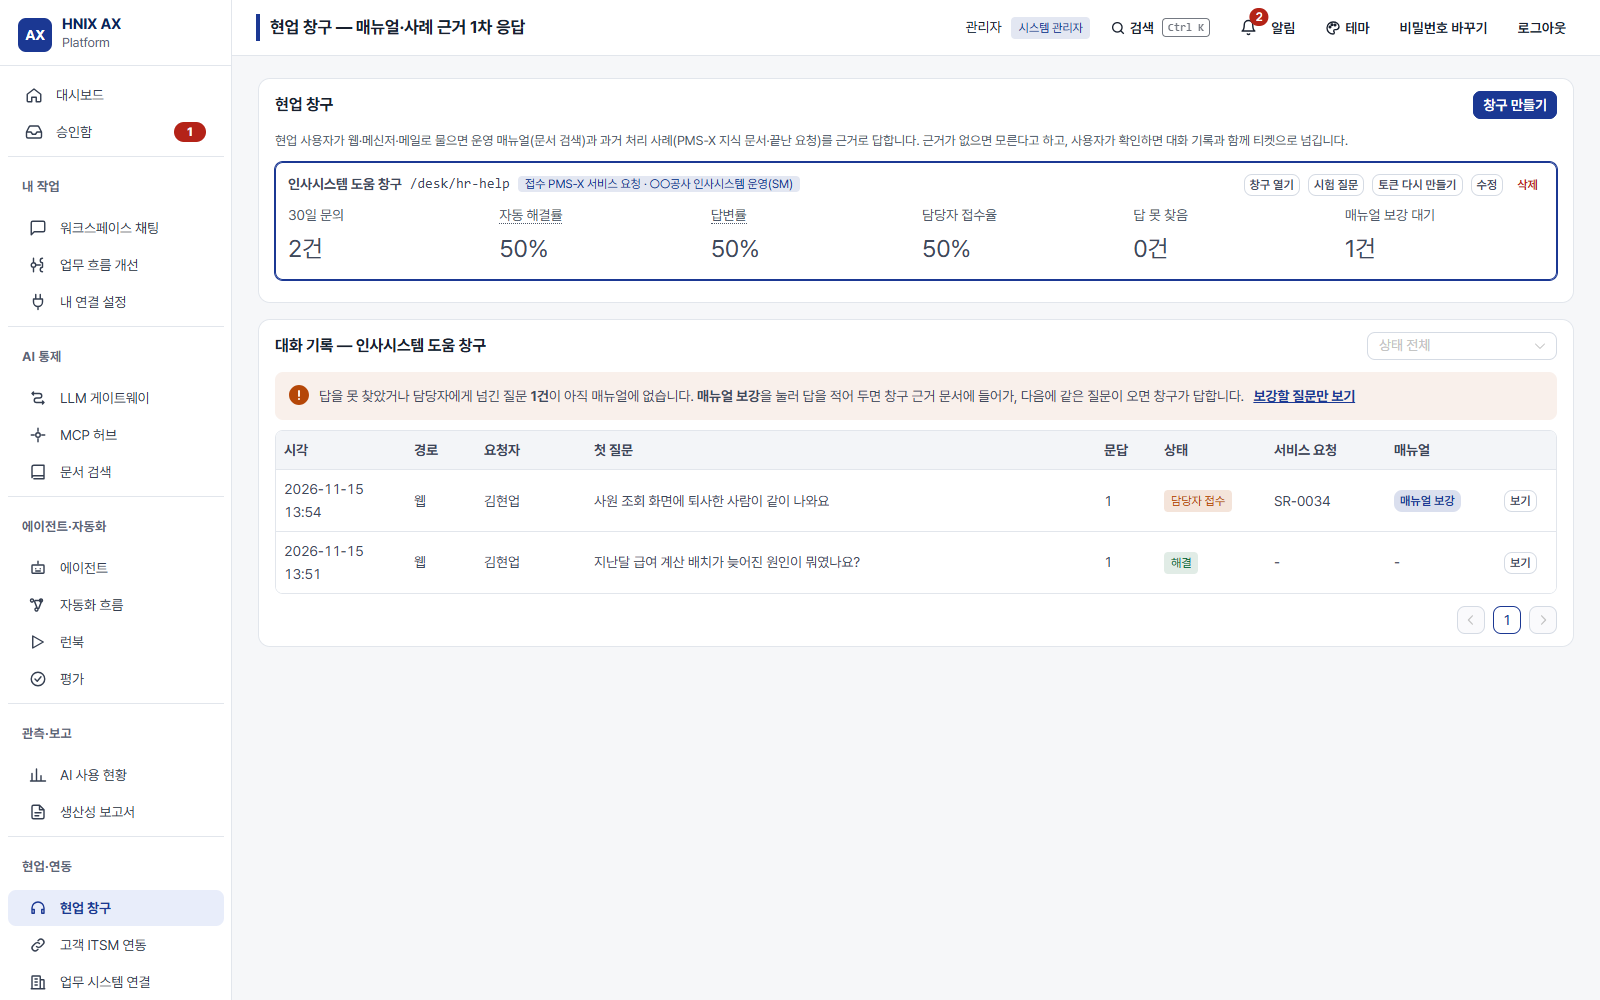
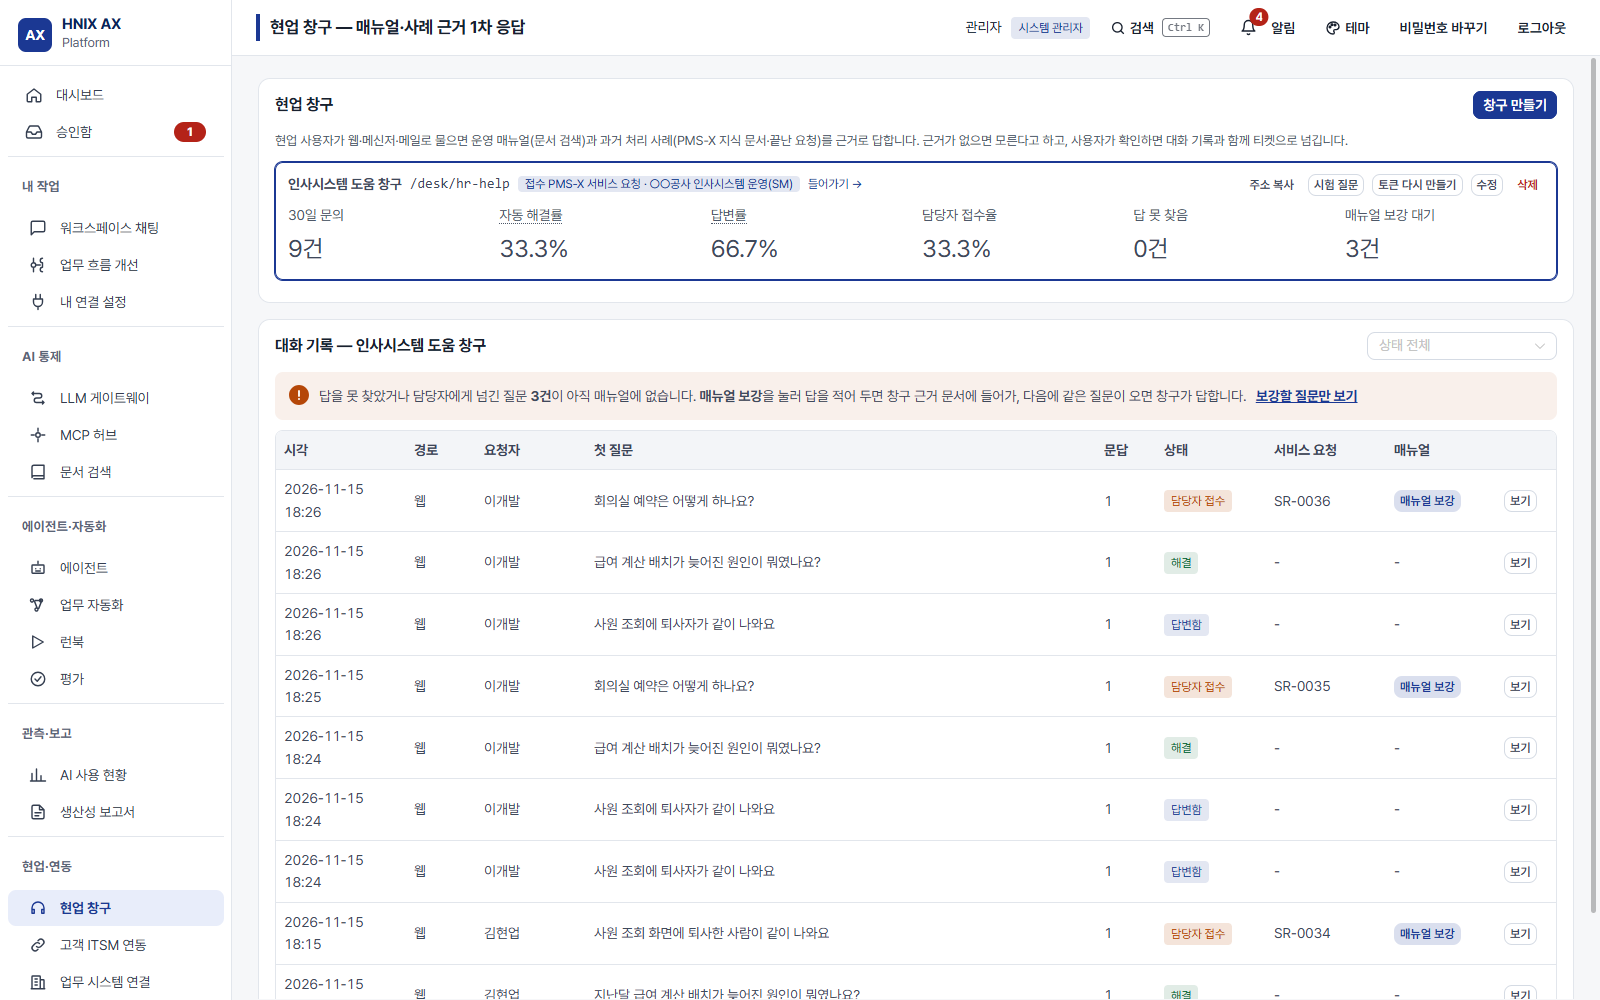
manual: 현업 창구 새 화면 — 첫 화면·답 카드의 해결·담당자 넘기기·내 문의, 창구 관리의 카드 누르기·주소 복사 · 그림 다시 · 오프라인판

diff --git a/user/platform/desk.md b/user/platform/desk.md
@@ -12,49 +12,51 @@
 
 ## 화면 구성
 
-<figure><img src="img/platform/u-desk.png" alt="현업 창구 화면 — 위 파란 띠에 '현업 창구'와 창구 이름 'E2E 인사시스템 도움 창구', 오른쪽에 로그인한 이름, 가운데 대화칸(첫 인사 '무엇이든 물어보세요. 운영 매뉴얼과 처리 사례를 찾아 답합니다.'), 아래 입력칸·보내기·안내 문구, 오른쪽 '내 최근 문의'(담당자 접수 SR-0103 · 답변함 등 지난 문의 목록)"><figcaption>시연 창구. 창구마다 색·로고·첫 인사·자주 묻는 질문이 다를 수 있습니다.</figcaption></figure>
+<figure><img src="img/platform/u-desk.png" alt="현업 창구 첫 화면 — 위 얇은 머리 줄에 로고·창구 이름·설명과 오른쪽 사용자 메뉴, 가운데 '무엇을 도와드릴까요?'와 큰 입력칸(마이크·보내기), 아래 자주 묻는 질문 카드와 '이렇게 도와드려요' 세 단계, 오른쪽 '내 문의' 목록(질문·상태·시각)"><figcaption>시연 창구의 첫 화면. 창구마다 색·로고·첫 인사·자주 묻는 질문이 다를 수 있습니다.</figcaption></figure>
 
 | 영역 | 하는 일 |
 |---|---|
-| 머리 띠 | 창구 이름·설명, 로그인한 이름(포털 안에 넣은 화면에서는 숨겨짐) |
-| 대화칸 | 첫 인사, **자주 묻는 질문** 단추(있으면), 내 질문과 답 |
-| 답 아래 | **근거** 또는 **참고 자료** 꼬리표, 음성이 켜져 있으면 **듣기** |
-| 입력칸 | 질문을 적고 **보내기**(Enter). 음성이 켜져 있으면 마이크 단추 |
-| 오른쪽 **내 최근 문의** | 지난 문의와 상태·접수 번호. 누르면 그 대화를 다시 엽니다 |
+| 머리 줄 | 로고·창구 이름·설명, 오른쪽 사용자 메뉴(이름·로그아웃). 포털 안에 넣은 화면에서는 숨겨짐 |
+| 첫 화면 | **무엇을 도와드릴까요?**, 큰 입력칸, **자주 묻는 질문** 카드, **이렇게 도와드려요** 세 단계(① 매뉴얼·처리 사례로 먼저 답 ② 안 풀리면 대화 기록과 함께 담당자에게 ③ 접수 번호로 처리 상황 확인) |
+| 대화 | 내 질문은 오른쪽, 답은 왼쪽 카드. 답 카드 아래에 **근거**, **이 답으로 해결됐나요? [해결됐어요] [담당자에게 넘기기]**, 음성이 켜져 있으면 **듣기** |
+| 입력칸 | 질문을 적고 **보내기**(Enter, 줄 바꿈은 Shift+Enter). 음성이 켜져 있으면 마이크 단추 |
+| 오른쪽 **내 문의** | 지난 문의의 첫 질문·상태·서비스 요청 번호·시각. 누르면 그 대화를 다시 엽니다. **+ 새 문의**로 첫 화면에 돌아갑니다 |
+
+> **참고** 휴대폰처럼 좁은 화면에서는 한 줄로 보이고, **내 문의**는 대화 아래로 내려가 접혀 있습니다.
 
 ## 묻고 답 받기
 
-1. 입력칸에 무엇이 안 되는지 적습니다. 예: *사원 조회에 퇴사자가 같이 나와요*. 자주 묻는 질문 단추가 있으면 눌러도 됩니다.
+1. 입력칸에 무엇이 안 되는지 적습니다. 예: *사원 조회에 퇴사자가 같이 나와요*. 자주 묻는 질문 카드가 있으면 눌러도 됩니다.
 2. **보내기**를 누르거나 Enter 를 칩니다(줄 바꿈은 Shift+Enter).
 3. *매뉴얼과 처리 사례를 찾는 중입니다*가 나온 뒤 답이 글자로 흘러나옵니다.
-4. 답 아래 꼬리표를 확인합니다.
+4. 답 카드 아래 **근거** 칩을 확인합니다. 칩이나 본문의 [1]·[2] 번호를 누르면 근거 문서의 해당 부분이 펼쳐집니다.
 
-| 꼬리표 | 뜻 |
+| 표시 | 뜻 |
 |---|---|
-| **근거** | 답이 이 문서·사례를 근거로 만들어졌습니다. 초록은 처리 사례(지식 문서), 파랑은 매뉴얼 |
+| **근거** | 답이 이 문서·사례를 근거로 만들어졌습니다. 칩에 문서 이름과 종류(매뉴얼·지식 문서·처리 사례)가 보입니다 |
 | **참고 자료** | 답을 확실히 찾지 못했을 때 보여 주는 가까운 자료 — *답을 찾지 못했습니다. 아래 자료가 참고가 될 수 있습니다.* |
 
 > **주의** 답은 AI 가 매뉴얼과 과거 처리 사례로 만듭니다. 비밀번호·개인정보는 적거나 말하지 마세요.
 
 ## 해결됐으면 — 해결됐어요
 
-답 아래에 *이 답으로 해결됐나요?*가 나옵니다.
+마지막 답 카드 바로 아래에 *이 답으로 해결됐나요?*가 나옵니다.
 
 1. **해결됐어요**를 누릅니다.
-2. *해결로 기록했습니다. 감사합니다.*가 나옵니다. 다른 것을 물으려면 **새 질문하기**.
+2. 대화 안에 **해결** 상태 카드가 나옵니다. 이어서 다른 것을 물으면 앞 대화는 위에 남고 *새 문의* 구분선 뒤에 새 대화가 시작됩니다. 처음 화면으로 가려면 **+ 새 문의**.
 
 ## 해결이 안 되면 — 담당자에게 넘기기
 
-<figure><img src="img/platform/u-desk-ticket.png" alt="담당자에게 넘긴 대화 — 질문 '[E2E] 회의실 예약 시스템 사용법 알려줘', 답 '답을 찾지 못했습니다…', 참고 자료 꼬리표 네 개, 아래 노란 칸 '담당자에게 넘겼습니다 — 서비스 요청 번호 SR-0103. 처리 상황은 담당 부서에서 알려 드립니다. 새 질문하기', 오른쪽 내 최근 문의"><figcaption>담당자에게 넘긴 뒤의 모습(내 최근 문의에서 다시 연 대화). 서비스 요청 번호를 적어 두세요.</figcaption></figure>
+<figure><img src="img/platform/u-desk-ticket.png" alt="담당자에게 넘긴 대화 — 질문과 답 카드, 그 아래 담당자 접수 상태 카드(서비스 요청 번호), 오른쪽 내 문의에 담당자 접수 상태"><figcaption>담당자에게 넘긴 뒤의 모습. 서비스 요청 번호를 적어 두세요.</figcaption></figure>
 
-1. **담당자에게 넘기기**를 누릅니다.
+1. 답 카드 아래 **담당자에게 넘기기**를 누릅니다. 그 자리에 덧붙일 내용 칸이 펼쳐집니다.
 2. 덧붙일 내용을 적습니다(선택). 예: 화면 이름, 발생 시각, 오류 문구.
 3. **대화 기록과 함께 접수**를 누릅니다.
-4. *담당자에게 넘겼습니다 — 서비스 요청 번호 ○○○.*가 나옵니다. 지금까지 대화가 붙은 서비스 요청이 운영 담당에게 접수된 것입니다.
+4. 대화 안에 **담당자 접수** 상태 카드와 서비스 요청 번호가 나옵니다. 지금까지 대화가 붙은 서비스 요청이 운영 담당에게 접수된 것입니다.
 
-> **참고** 처리 상황은 담당 부서에서 알려 줍니다. 오른쪽 **내 최근 문의**에서 상태와 접수 번호를 다시 볼 수 있습니다. 담당자가 답을 매뉴얼에 보강하면 다음부터는 창구가 바로 답합니다.
+> **참고** 처리 상황은 담당 부서에서 알려 줍니다. 오른쪽 **내 문의**에서 상태와 접수 번호를 다시 볼 수 있습니다. 담당자가 답을 매뉴얼에 보강하면 다음부터는 창구가 바로 답합니다.
 
-### 내 최근 문의의 상태
+### 내 문의의 상태
 
 | 상태 | 뜻 |
 |---|---|
@@ -66,7 +68,7 @@
 
 ## 말로 묻기와 답 듣기
 
-창구에 음성이 켜져 있으면 입력칸 옆에 마이크 단추가, 답마다 **듣기** 단추가 보입니다.
+창구에 음성이 켜져 있으면 입력칸 안에 마이크 단추가, 답마다 **듣기** 단추가 보입니다.
 
 1. 마이크를 누르고 말합니다. 단추에 녹음 시간이 흐릅니다.
 2. 다시 누르면 말이 글로 바뀌어 입력칸에 들어갑니다(창구 설정에 따라 바로 보내지기도 합니다).
@@ -78,7 +80,7 @@
 ## 자주 묻는 질문
 
 **Q. 예전에 물었던 대화를 다시 보고 싶습니다.**
-오른쪽 **내 최근 문의**에서 누르면 그 대화가 열립니다.
+오른쪽 **내 문의**에서 누르면 그 대화가 열립니다.
 
 **Q. 답이 틀렸습니다.**
 **담당자에게 넘기기**로 접수하면서 무엇이 틀렸는지 덧붙여 주세요. 담당자가 매뉴얼을 고칩니다.

diff --git a/admin/platform/desk.md b/admin/platform/desk.md
@@ -4,15 +4,16 @@
 
 ## 화면 구성
 
-<figure><img src="img/platform/a-desks.png" alt="현업 창구 관리 화면 — 창구 두 개(E2E 인사시스템 도움 창구 /desk/e2e-help, 인사시스템 도움 창구 /desk/hr-help)에 접수 방식 꼬리표와 창구 열기·시험 질문·토큰 다시 만들기·수정·삭제 버튼, 30일 문의·자동 해결률·답변률·담당자 접수율·답 못 찾음·매뉴얼 보강 대기 수치, 아래 대화 기록 표(시각·경로·요청자·첫 질문·문답·상태·서비스 요청·매뉴얼)와 매뉴얼 보강 안내"><figcaption>현업 창구 — 창구 카드(30일 성과)와 고른 창구의 대화 기록</figcaption></figure>
+<figure><img src="img/platform/a-desks.png" alt="현업 창구 관리 화면 — 창구 카드(인사시스템 도움 창구 /desk/hr-help, 접수 방식 꼬리표, 마우스를 올리면 들어가기 →, 주소 복사·시험 질문·토큰 다시 만들기·수정·삭제 버튼, 30일 문의·자동 해결률·답변률·담당자 접수율·답 못 찾음·매뉴얼 보강 대기 수치), 아래 대화 기록 표와 매뉴얼 보강 안내"><figcaption>카드를 누르면 그 창구로 들어갑니다. 대화 기록은 아래 칸에서 봅니다.</figcaption></figure>
 
 | 영역 | 하는 일 |
 |---|---|
 | **창구 만들기** | 새 창구(오른쪽 위) |
 | 창구 카드 | 이름, 주소(`/desk/<주소 이름>`), `꺼짐`, 접수 방식(예: `접수 PMS-X 서비스 요청 · ○○공사 인사시스템 운영(SM)`), `Teams` 꼬리표 |
-| 카드 버튼 | **창구 열기** · **시험 질문** · **토큰 다시 만들기** · **수정** · **삭제** (시스템 관리자) |
+| 카드 누르기 | 그 창구로 들어갑니다(같은 탭 — Ctrl·가운데 단추는 새 탭). 창구 머리 줄의 **← 창구 관리**로 돌아옵니다(관리자에게만 보임) |
+| 카드 버튼 | **주소 복사**(현업 사용자에게 보낼 창구 주소) · **시험 질문** · **토큰 다시 만들기** · **수정** · **삭제** (시스템 관리자) |
 | 성과 수치 | 최근 30일 — 아래 표 |
-| **대화 기록 — <창구>** | 카드를 누르면 그 창구의 대화. 오른쪽 위 상태 거르기 |
+| **대화 기록** | 창구의 대화. 창구가 여럿이면 오른쪽 위에서 창구를 고르고, 상태로 거른다 |
 
 > **참고** 감사자는 창구와 대화 기록을 볼 수 있지만 카드 버튼이 보이지 않고 **매뉴얼 보강** 버튼이 눌리지 않습니다.
 
@@ -106,7 +107,7 @@
 
 > **참고** 시험 질문은 대화 기록과 창구 성과에 남지 않습니다(게이트웨이 요청 로그에는 남음).
 
-**창구 열기**는 현업 화면을 새 탭으로 엽니다. 거기서 물으면 실제 대화로 기록됩니다.
+창구 카드를 누르면 현업 화면으로 들어갑니다. 거기서 물으면 실제 대화로 기록됩니다. 현업 사용자에게는 카드의 **주소 복사**로 주소를 보내세요.
 
 ## 성과 지표
 
